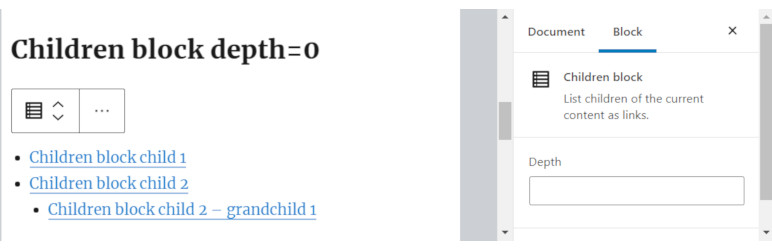
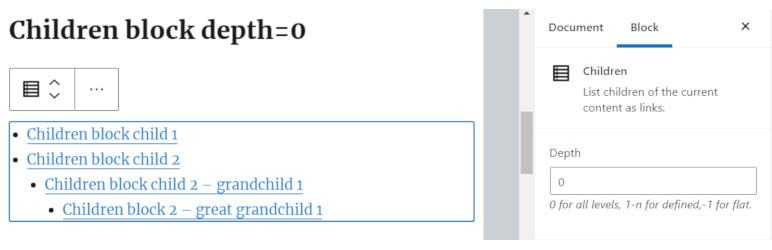
Issue #8 - rename block to oik-sb/children with title 'Children'

diff --git a/src/children-block/index.js b/src/children-block/index.js
@@ -32,12 +32,12 @@ import save from './save';
  *
  * @see https://developer.wordpress.org/block-editor/developers/block-api/#registering-a-block
  */
-registerBlockType( 'sb/children-block', {
+registerBlockType( 'oik-sb/children', {
 	/**
 	 * This is the display title for your block, which can be translated with `i18n` functions.
 	 * The block inserter will show this name.
 	 */
-	title: __( 'Children block', 'sb-children-block' ),
+	title: __( 'Children', 'sb-children-block' ),
 
 	/**
 	 * This is a short description for your block, can be translated with `i18n` functions.

diff --git a/src/children-block/edit.js b/src/children-block/edit.js
@@ -50,7 +50,7 @@ export default function edit ( { attributes, className, isSelected, setAttribute
 				</PanelBody>
 			</InspectorControls>
 			<ServerSideRender
-				block="sb/children-block" attributes={attributes}
+				block="oik-sb/children" attributes={attributes}
 			/>
 		</Fragment>
 	);

diff --git a/sb-children-block.php b/sb-children-block.php
@@ -3,7 +3,7 @@
  * Plugin Name:     SB Children block
  * Plugin URI: 		https://www.oik-plugins.com/oik-plugins/sb-children-block
  * Description:     List children of the current content as links.
- * Version:         0.5.3
+ * Version:         1.0.0
  * Author:          bobbingwide
  * Author URI: 		https://www.bobbingwide.com/about-bobbing-wide
  * License:         GPL-2.0-or-later
@@ -59,7 +59,7 @@ function sb_children_block_block_init() {
 		filemtime( "$dir/$style_css" )
 	);
 
-	register_block_type( 'sb/children-block', array(
+	register_block_type( 'oik-sb/children', array(
 		'editor_script' => 'sb-children-block-block-editor',
 		'editor_style'  => 'sb-children-block-block-editor',
 		'style'         => 'sb-children-block-block',

diff --git a/README.md b/README.md
@@ -1,10 +1,10 @@
 # SB Children block 
 ![banner](https://raw.githubusercontent.com/bobbingwide/sb-children-block/master/assets/sb-children-block-banner-772x250.jpg)
 * Contributors:      bobbingwide
-* Tags:              block, children, links
+* Tags:              block, children, links, offspring, descendents, descendants
 * Requires at least: 5.4.2
-* Tested up to:      5.4.2
-* Stable tag:        0.5.3
+* Tested up to:      5.5-RC2
+* Stable tag:        1.0.0
 * Requires PHP:      7.2.0
 * License:           GPL-2.0-or-later
 * License URI:       https://www.gnu.org/licenses/gpl-2.0.html
@@ -12,7 +12,7 @@
 List children of the current content as links.
 
 ## Description 
-Use the Children block ( sb/children-block ) to list children of the current content as links.
+Use the Children block ( oik-sb/children ) to list children of the current content as links.
 Works for any hierarchical post type which supports page-attributes, such as page.
 
 ## Installation 
@@ -38,6 +38,12 @@ Works for any hierarchical post type which supports page-attributes, such as pag
 4. Children block depth=-1
 
 ## Upgrade Notice 
+# 1.0.0 
+Renamed block to oik-sb/children with title Children.
+
+# 0.5.4 
+Minor updates following submission to wordpress.org
+
 # 0.5.3 
 Now rebuilt in Production mode with updated screenshots.
 
@@ -71,6 +77,13 @@ Now implements the child list using server side rendering and supports the depth
 Initial version generated by npm wp-create-block
 
 ## Changelog 
+# 1.0.0 
+* Changed: Updated screenshots for new block name.https://github.com/bobbingwide/sb-children-block/issues/8
+
+
+# 0.5.4 
+* Changed: Update version on package.json to match version in plugin file and readme
+
 # 0.5.3 
 * Fixed: Added webpack.config.js to enable production build peaceful coexistence,https://github.com/bobbingwide/oik-children-block/issues/6
 * Changed: Updated screenshots
